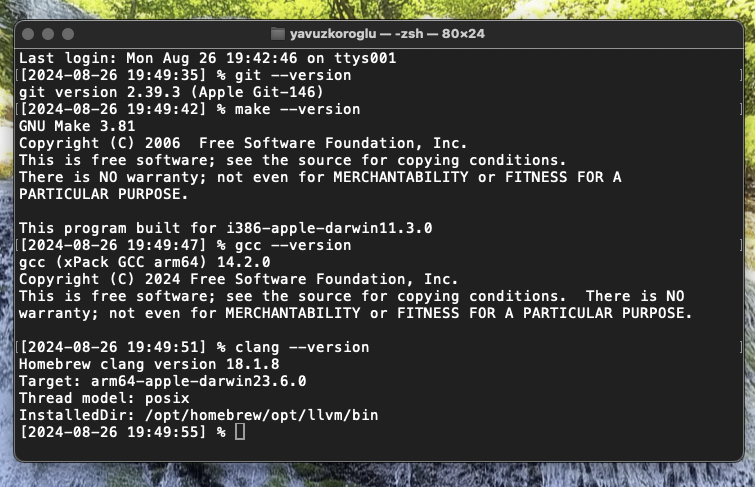
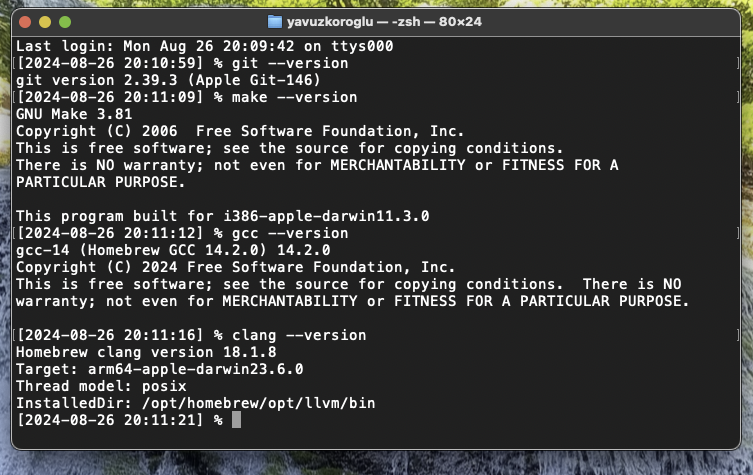
[2024-08-26 20:17:01]

Changed region(s): [[0.0, 0.0, 1.0, 1.0]]

diff --git a/README.md b/README.md
@@ -12,10 +12,8 @@ Portable Application (App.) Development (Dev.) KIT (PADKIT) is a library of C ma
         - [A1ii. A Text Editor](#a1ii-a-text-editor)
         - [A1iii. A Standard-Conforming C Compilation Environment](#a1iii-a-standard-conforming-c-compilation-environment)
     - [A2. Compile PADKIT](#a2-compile-padkit)
-        - [A2i. Source-Control Management System](#a2i-source-control-management-system)
-        - [A2ii. Compilation Automation Tool](#a2ii-compilation-automation-tool)
-        - [A2iii. C Compiler](#a2iii-C-compiler)
-        - [A2iv. PADKIT Compilation Steps](#a2iv-padkit-compilation-steps)
+        - [A2i. Compilation Tools](#a2i-compilation-tools)
+        - [A2ii. Compilation Steps](#a2ii-compilation-steps)
     - [A3. Examples](#a3-examples)
 - [B. Introduction](#b-introduction)
 - [Acknowledgment](#acknowledgment) 
@@ -129,12 +127,23 @@ The next step is to compile PADKIT. You already have a terminal with a `bash`[^4
 2. `make`[^13] compilation automation tool, and
 3. at least one of the `gcc`[^2] or `clang`[^3] C compilers.
 
-On MacOS and Linux, these tools are readily available. You can check your `git`, `make`, `gcc`, and `clang` versions using the `--version` parameter.
+#### MacOS
+
+On MacOS, all the compilation tools must be readily available. You can check the versions using the `--version` parameter.
+
+> [!IMPORTANT]
+> The `gcc` and `clang` versions should be at least `14.2.0` and `18.1.8`, respectively.
 
 ![figures/sections/a2i/macos/versions.png](figures/sections/a2i/macos/versions.png)
+
+#### Linux
+
+> [!IMPORTANT]
+> The `gcc` and `clang` versions should be at least `14.2.0` and `18.1.8`, respectively.
+
 ![figures/sections/a2i/linux/versions.png](figures/sections/a2i/linux/versions.png)
 
-### A2ii. PADKIT Compilation Steps
+### A2ii. Compilation Steps
 
 ```
 git clone -b (C99|C23) https://github.com/yavuzkoroglu/padkit.git
